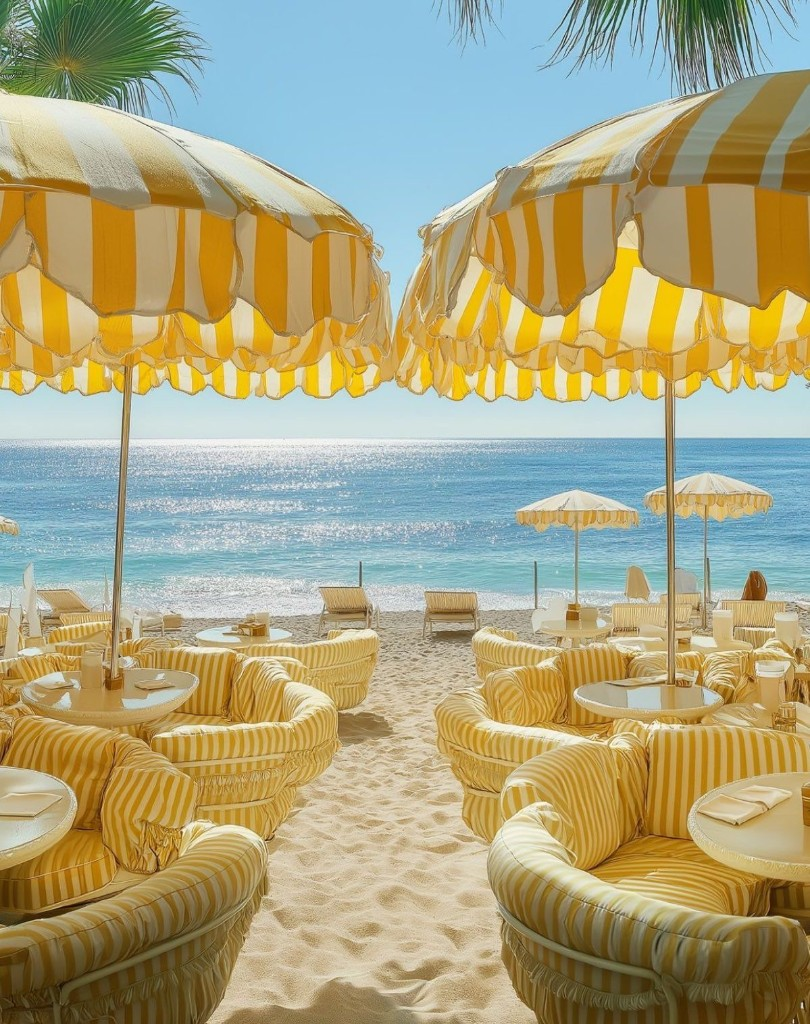
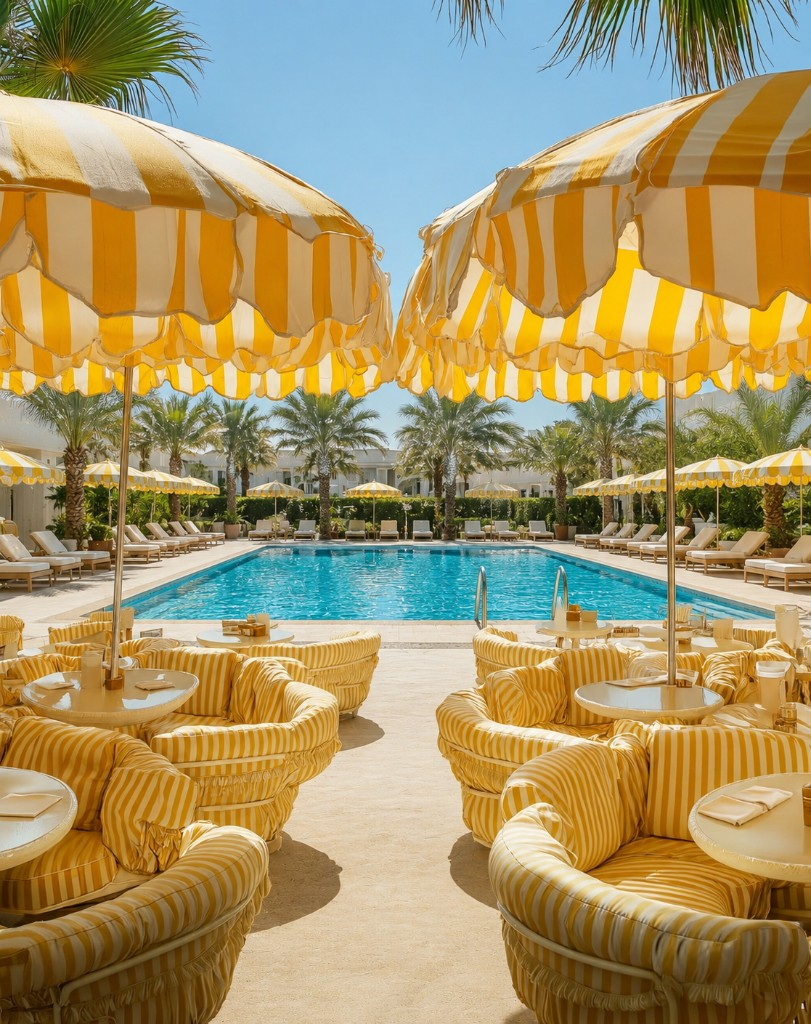
Update hero background to new pool club photo
Replace beach hero image on home and invite pages with the yellow umbrella pool scene.

diff --git a/src/components/home/HeroBeachBackground.tsx b/src/components/home/HeroBeachBackground.tsx
@@ -9,7 +9,7 @@ export function HeroBeachBackground() {
         alt=""
         fill
         priority
-        className="object-cover object-center"
+        className="object-cover object-center sm:object-[center_35%]"
         sizes="100vw"
         aria-hidden
       />
